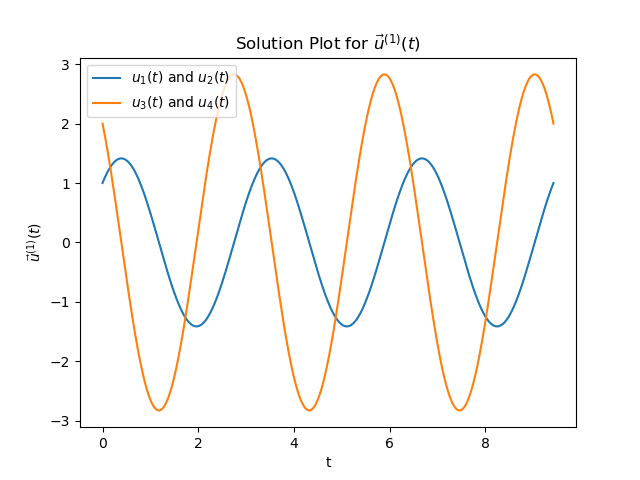
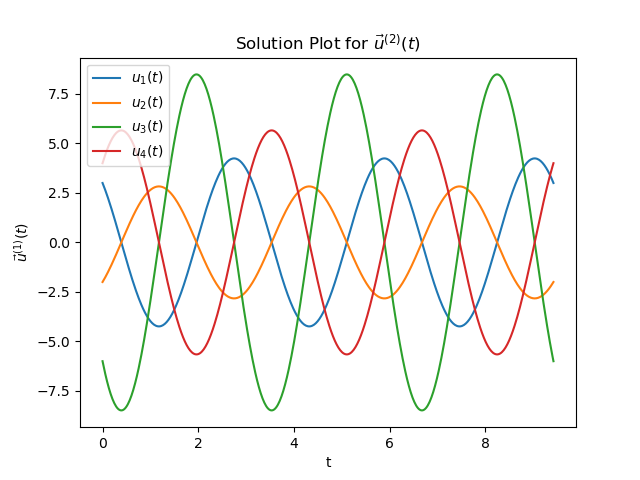
made corrections to general solution

diff --git a/Solution.py b/Solution.py
@@ -2,29 +2,42 @@ import matplotlib.pyplot as plt
 import numpy as np
 
 
+m = np.sqrt(2/3)
+n = np.sqrt(3/2)
+
 def solutions_1(t):
-    sol = np.cos(2*t) + np.sin(2*t)
+    sol = -3*np.sin(2*t) + 3*np.cos(2*t)
     return sol
 
 
 def solutions_2(t):
-    sol = -2*np.sin(2*t) + 2*np.cos(2*t)
+    sol = 2*np.sin(2*t) - 2 * np.cos(2*t)
+    return sol
+
+
+def solutions_3(t):
+    sol = -6*np.cos(2*t) - 6*np.sin(2*t)
+    return sol
+
+def solutions_4(t):
+    sol = 4*np.cos(2*t) + 4*np.sin(2*t)
     return sol
 
 
 x_vals = np.linspace(0, 3*np.pi, 500)
 
 
-plt.title(r'Solution Plot for $\vec{u}^{(1)}(t)$')
+plt.title(r'Solution Plot for $\vec{u}^{(2)}(t)$')
 
-plt.plot(x_vals, solutions_1(x_vals), label=r'$u_1(t)$ and $u_2(t)$')
-
-plt.plot(x_vals, solutions_2(x_vals), label=r'$u_3(t)$ and $u_4(t)$')
+plt.plot(x_vals, solutions_1(x_vals), label=r'$u_1(t)$')
+plt.plot(x_vals, solutions_2(x_vals), label=r'$u_2(t)$')
+plt.plot(x_vals, solutions_3(x_vals), label=r'$u_3(t)$')
+plt.plot(x_vals, solutions_4(x_vals), label=r'$u_4(t)$')
 
 plt.legend()
 
 plt.xlabel("t")
 plt.ylabel(r'$\vec{u}^{(1)}(t)$')
-plt.savefig('Part_c_solution for m_1 and n_1.png')
+plt.savefig('Part_c_solution for m_2 and n_2.png')
 plt.show()
 

diff --git a/Phase.py b/Phase.py
@@ -1,6 +1,8 @@
 import numpy as np
 import matplotlib.pyplot as plt
 
+
+
 # Setting the grid for visualization
 u1, u3 = np.meshgrid(np.linspace(-5, 5, 20), np.linspace(-5, 5, 20))
 u2, u4 = np.meshgrid(np.linspace(-5, 5, 20), np.linspace(-5, 5, 20))
@@ -37,7 +39,7 @@ axs[1].set_ylabel('$v_2$')
 axs[1].axis('equal')
 
 plt.tight_layout()
-plt.savefig('Part c Phase Portraits with solution curves')
+plt.savefig('Part c Phase Portraits')
 plt.show()
 
 
